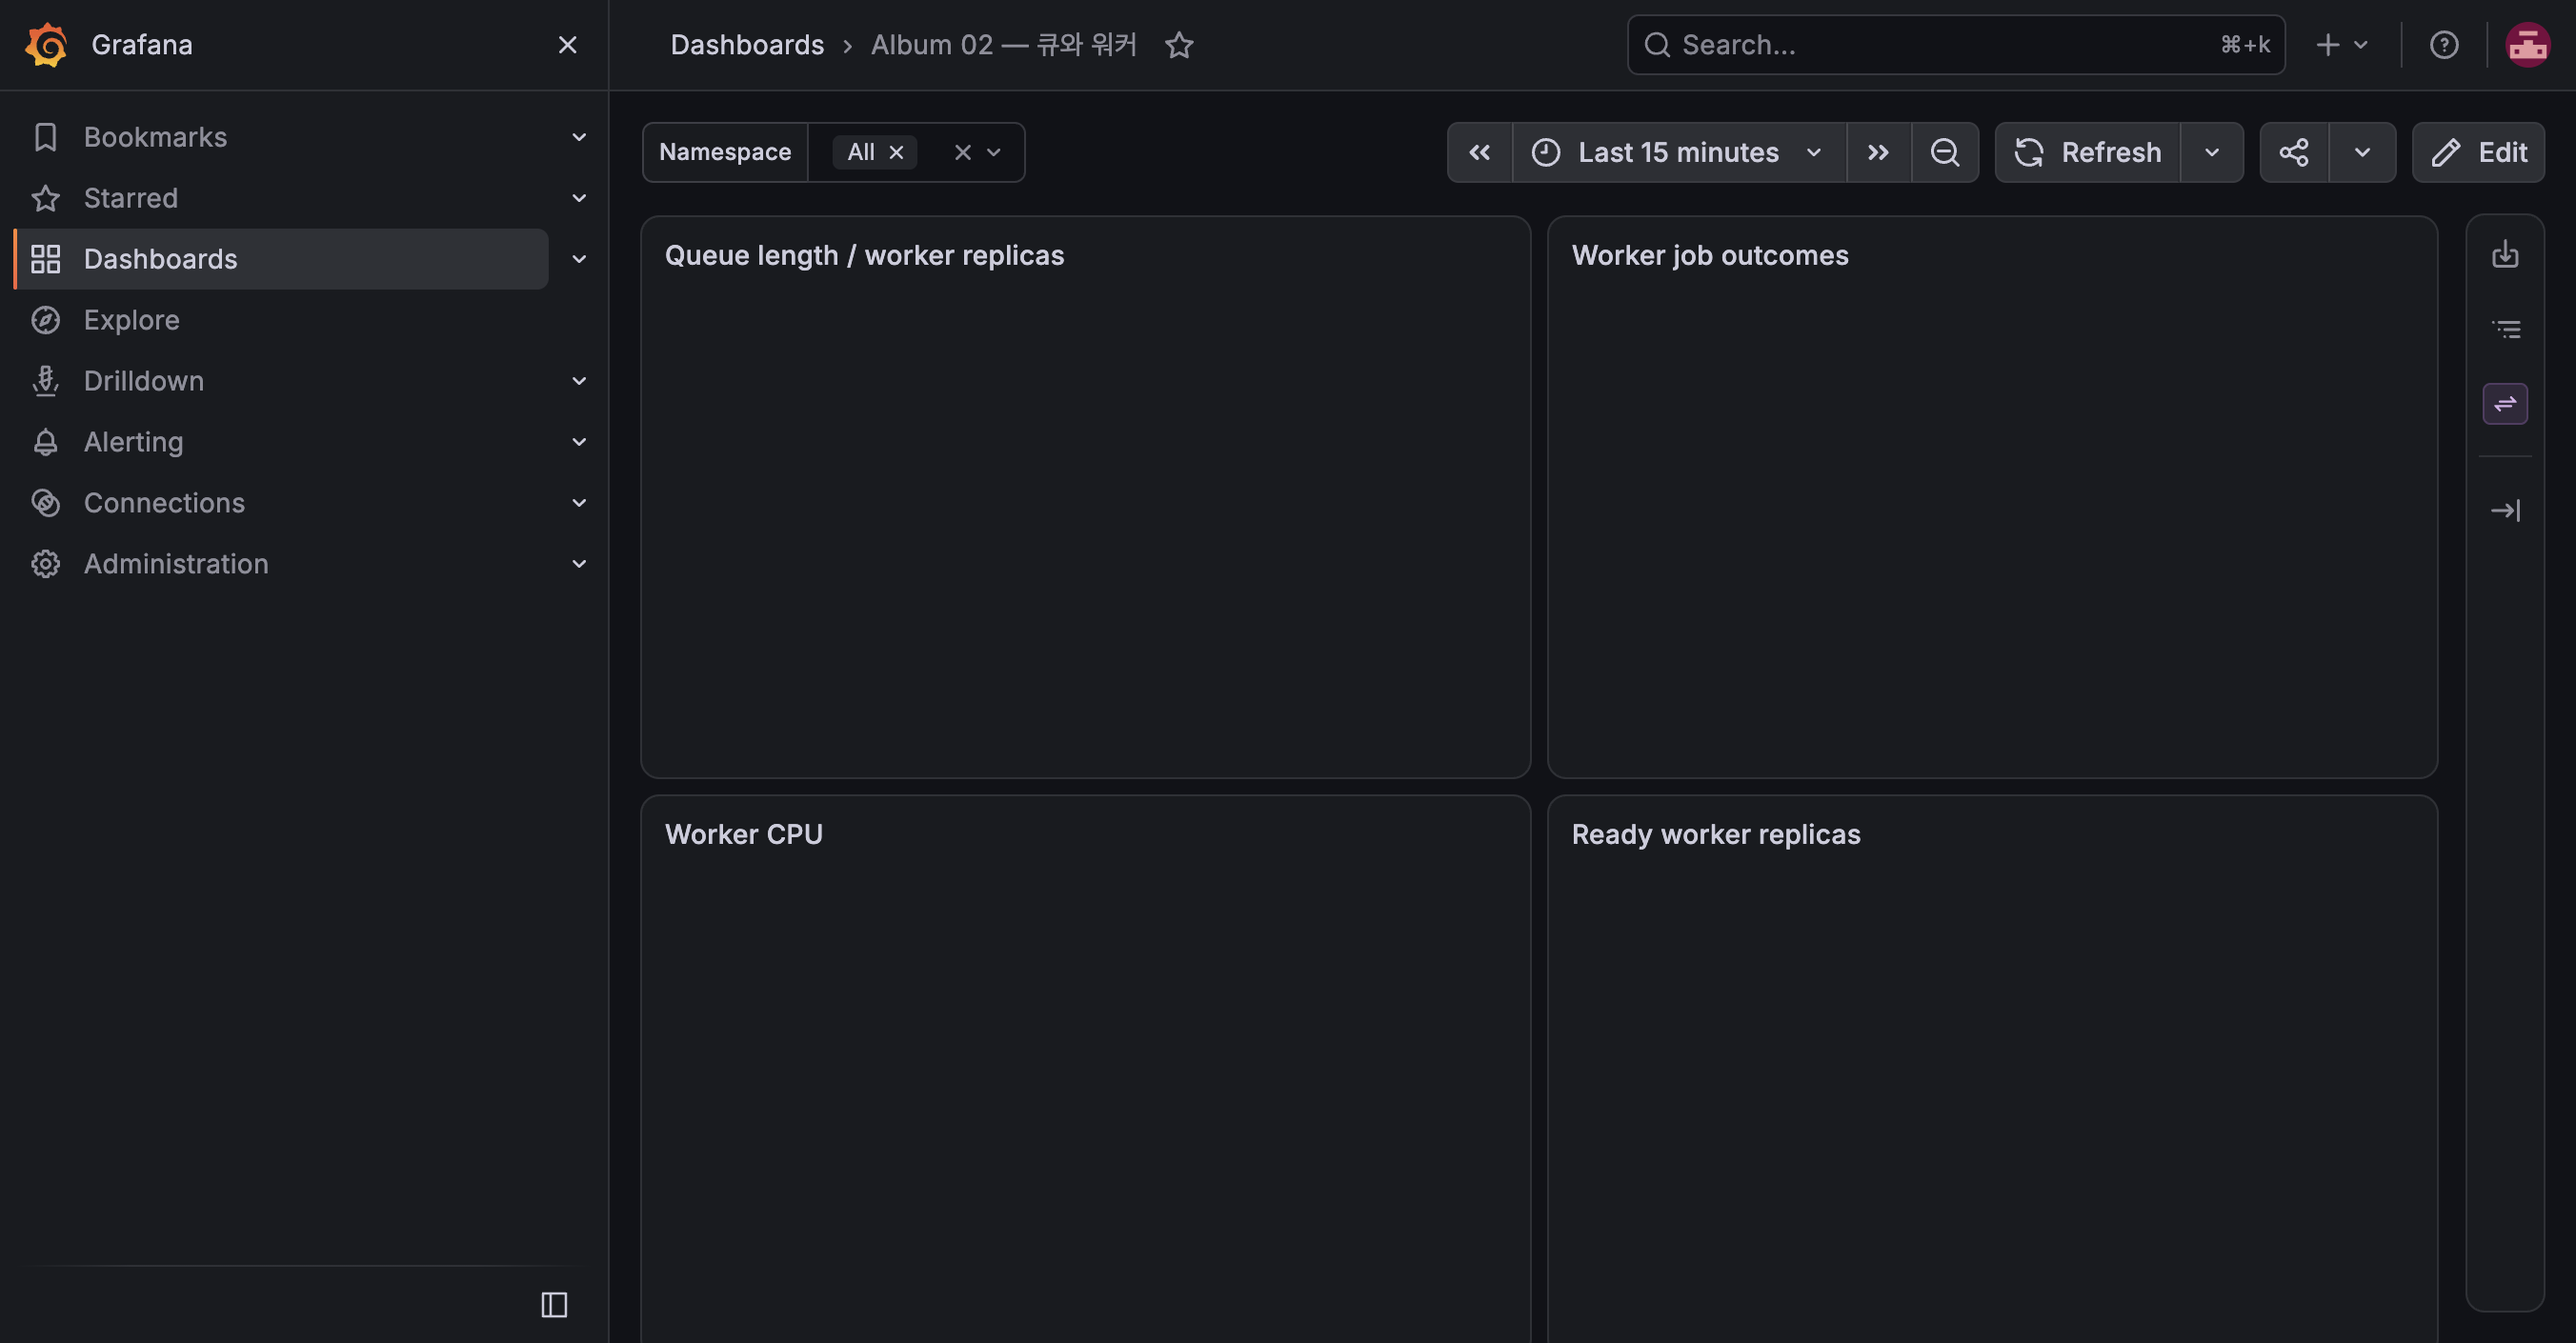
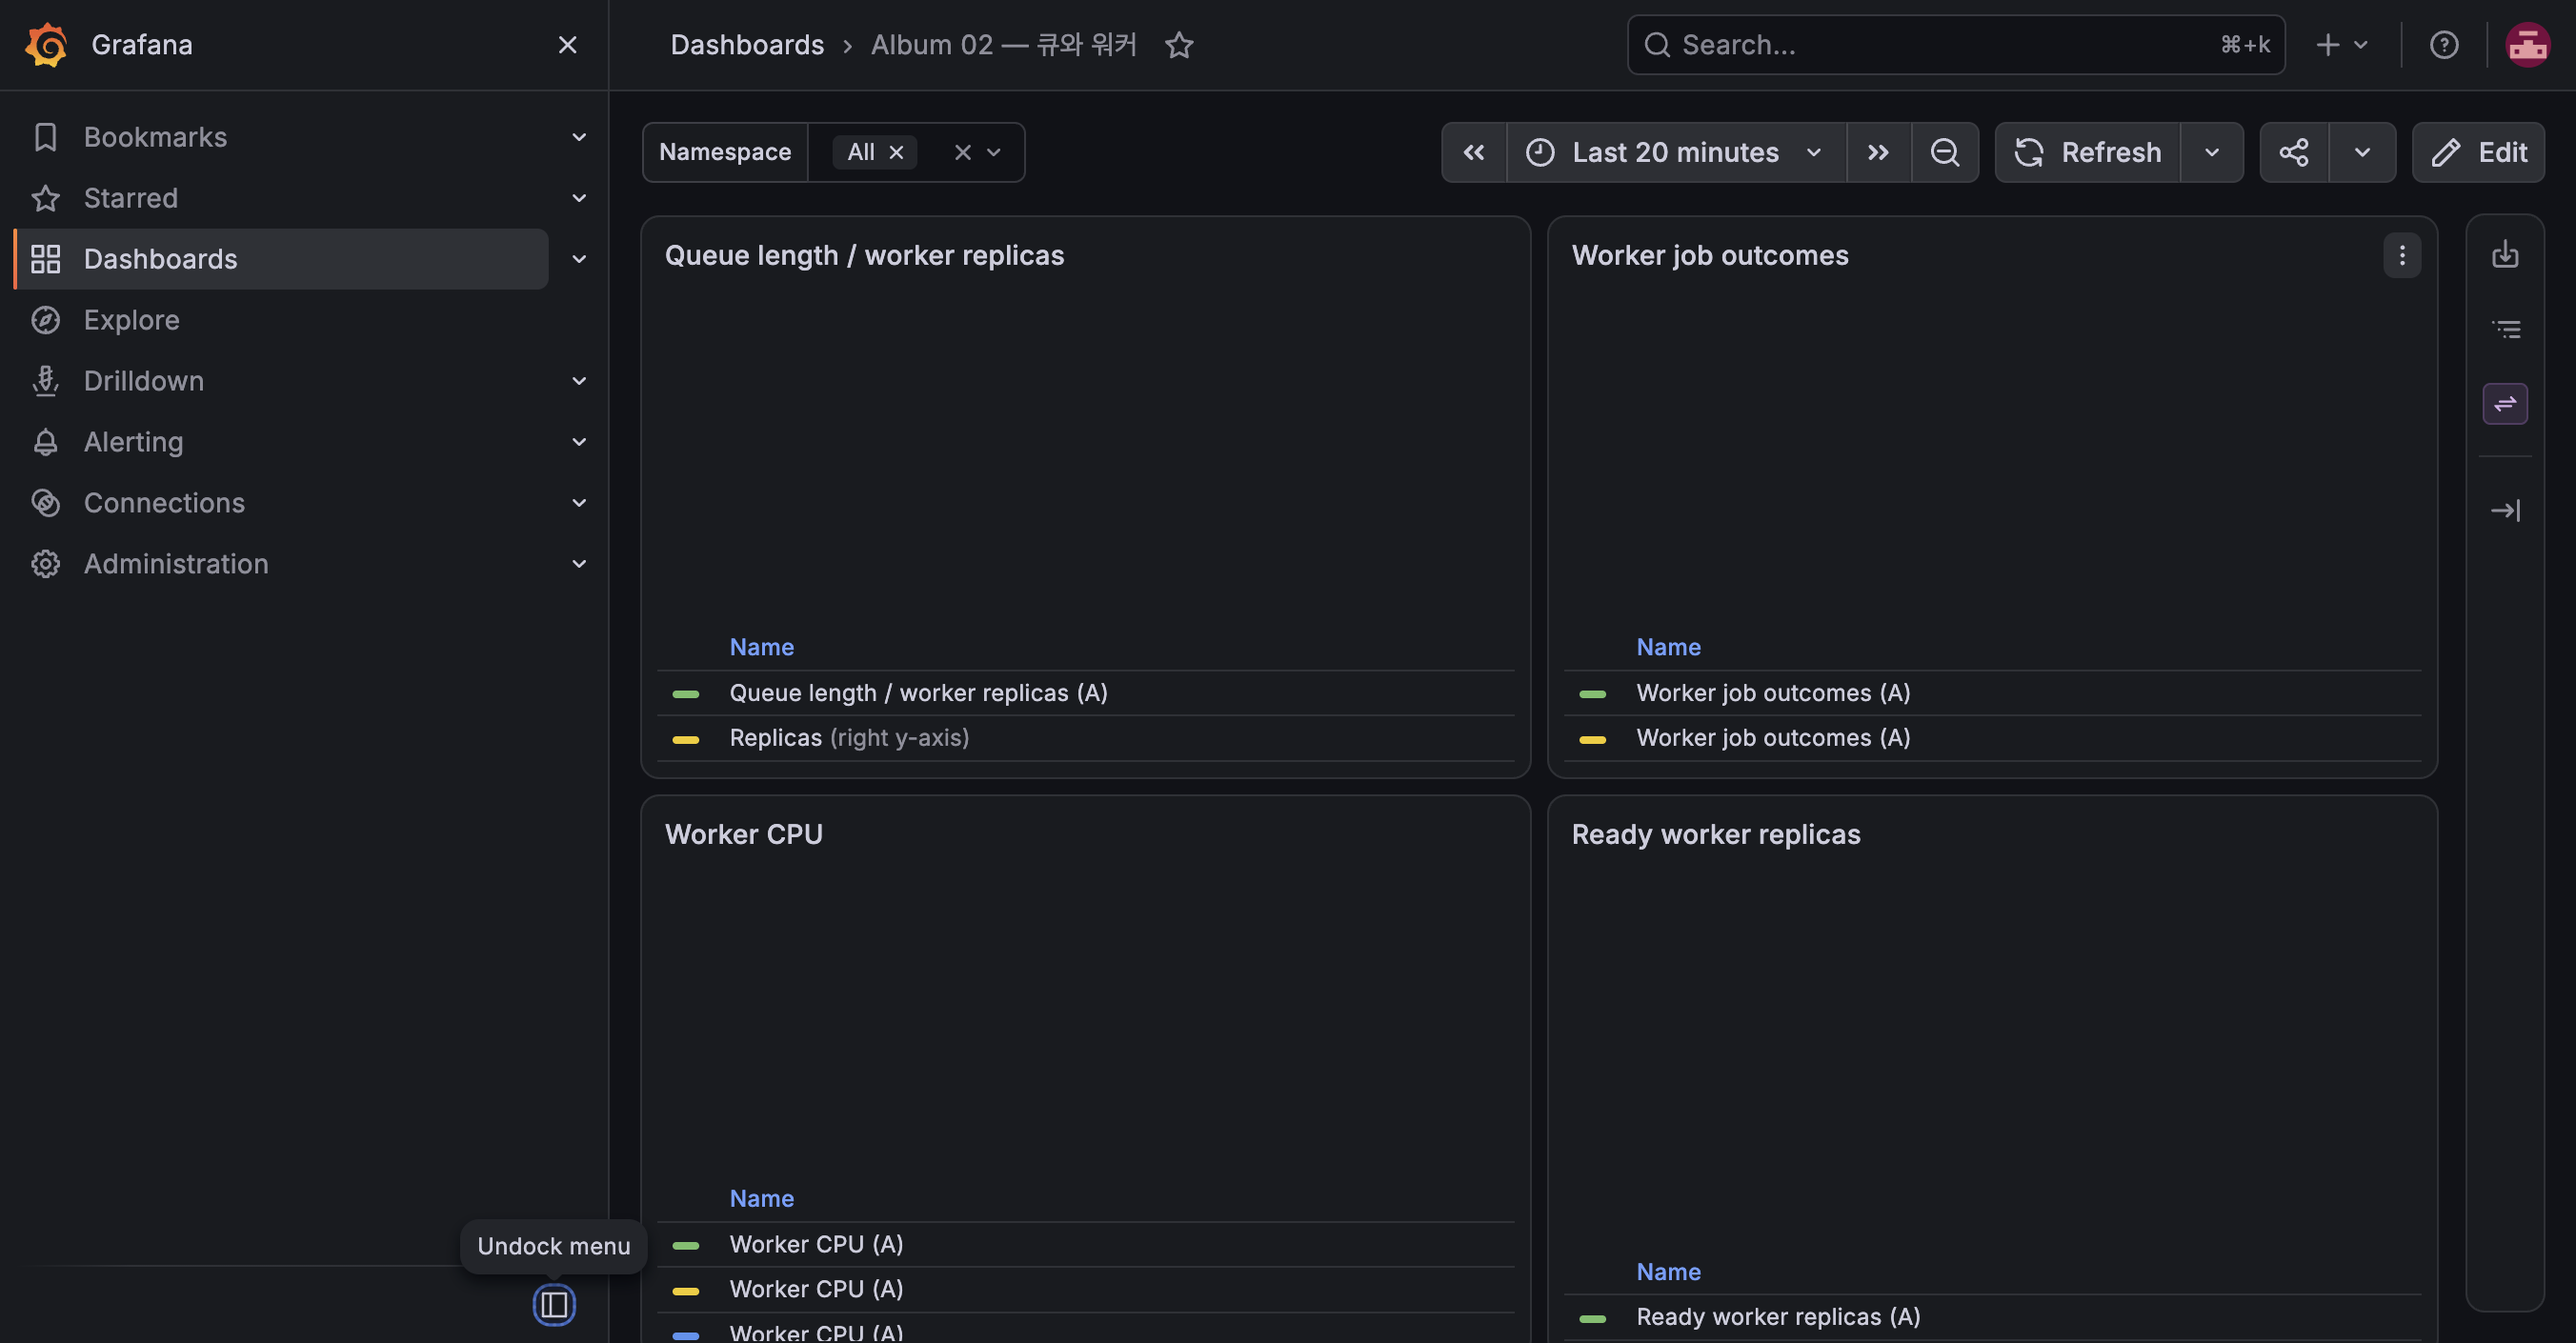
Record isolated HPA and five-hundred-photo scaling experiments
Tested: The staged 200-VU run completed 41809 requests with zero errors; all 500 uploaded fixtures reached DONE and workers scaled 0-2-0.
Constraint: Save accepted fixture IDs even when another upload fails and clean only those IDs.
Not-tested: These compressed fixtures are not a throughput benchmark for large real photos.
Reversibility: Remove the load tools; restore ARTIFICIAL_DELAY_MS to zero.

diff --git a/loadtest/list.js b/loadtest/list.js
@@ -1,0 +1,16 @@
+import http from 'k6/http';
+import { check } from 'k6';
+
+export const options = {
+  stages: [
+    { duration: '30s', target: 200 },
+    { duration: __ENV.DURATION || '3m', target: 200 },
+    { duration: '10s', target: 0 },
+  ],
+  thresholds: { http_req_failed: ['rate<0.01'], checks: ['rate>0.99'] },
+};
+
+export default function () {
+  const response = http.get(`${__ENV.BASE_URL || 'http://album.dev.local'}/api/photos`);
+  check(response, { 'list returns 200': (r) => r.status === 200 });
+}

diff --git a/loadtest/upload-batch.py b/loadtest/upload-batch.py
@@ -1,0 +1,102 @@
+#!/usr/bin/env python3
+# /// script
+# requires-python = "==3.13.*"
+# dependencies = ["httpx2[http2,brotli,zstd]"]
+# ///
+"""Upload isolated fixtures; persist their IDs for polling and explicit cleanup."""
+
+import argparse
+import json
+import socket
+import sys
+from concurrent.futures import ThreadPoolExecutor, as_completed
+from pathlib import Path
+
+import httpx2
+
+sys.path.insert(0, str(Path(__file__).resolve().parents[1] / "scripts"))
+from smoke import png
+
+
+def main() -> None:
+    parser = argparse.ArgumentParser(description=__doc__)
+    parser.add_argument("--count", type=int, default=500)
+    parser.add_argument("--concurrency", type=int, default=8)
+    parser.add_argument("--base", default="http://album.dev.local")
+    parser.add_argument(
+        "--output", type=Path, default=Path("/tmp/album-batch-ids.json")
+    )
+    parser.add_argument("--cleanup", action="store_true")
+    parser.add_argument("--status", action="store_true")
+    args = parser.parse_args()
+    if args.count < 1 or args.concurrency < 1:
+        parser.error("count and concurrency must be positive")
+    transport = httpx2.HTTPTransport(
+        http2=True,
+        retries=3,
+        limits=httpx2.Limits(
+            max_connections=200, max_keepalive_connections=40, keepalive_expiry=30
+        ),
+        socket_options=[(socket.IPPROTO_TCP, socket.TCP_NODELAY, 1)],
+    )
+    with httpx2.Client(
+        transport=transport,
+        base_url=args.base,
+        timeout=httpx2.Timeout(connect=5, read=30, write=10, pool=10),
+        follow_redirects=True,
+    ) as client:
+        if args.status:
+            counts: dict[str, int] = {}
+            for photo_id in json.loads(args.output.read_text()):
+                response = client.get(f"/api/photos/{photo_id}")
+                response.raise_for_status()
+                status = response.json()["status"]
+                counts[status] = counts.get(status, 0) + 1
+            print(json.dumps(counts, sort_keys=True))
+            if set(counts) != {"DONE"}:
+                raise RuntimeError("Batch has unfinished or failed photos")
+            return
+        if args.cleanup:
+            ids = json.loads(args.output.read_text())
+            for photo_id in ids:
+                response = client.delete(f"/api/photos/{photo_id}")
+                if response.status_code != 404:
+                    response.raise_for_status()
+            print(f"Deleted {len(ids)} batch fixtures")
+            args.output.unlink()
+            return
+        if args.output.exists():
+            parser.error("output already exists; clean the previous batch first")
+        image = png(1600, 1200)
+        ids: list[str] = []
+
+        def upload(number: int) -> str:
+            response = client.post(
+                "/api/photos",
+                files={"file": (f"batch-{number}.png", image, "image/png")},
+            )
+            response.raise_for_status()
+            return response.json()["id"]
+
+        # Save every accepted ID, including when a later request fails.
+        with ThreadPoolExecutor(max_workers=args.concurrency) as executor:
+            failures = 0
+            for future in as_completed(
+                [executor.submit(upload, n) for n in range(args.count)]
+            ):
+                try:
+                    ids.append(future.result())
+                except (httpx2.HTTPError, KeyError, ValueError):
+                    failures += 1
+                args.output.write_text(json.dumps(ids))
+            if failures:
+                raise RuntimeError(
+                    f"{failures} uploads failed; accepted IDs saved for cleanup"
+                )
+        print(
+            f"Uploaded {len(ids)} PNG fixtures, {len(image)} bytes each, concurrency {args.concurrency}"
+        )
+
+
+if __name__ == "__main__":
+    main()

diff --git a/docs/experiments/E-03.md b/docs/experiments/E-03.md
@@ -1,0 +1,58 @@
+# E-03 큐 기반 worker 자동 확장
+
+| 항목 | 내용 |
+|---|---|
+| 수행 일시 | 2026-10-15 09:07:07~09:15:52 KST |
+| 환경 | dev K3S 단일 B4as_v2 노드 |
+| 앱 버전 | 업로드·처리 dev-m3b, 냉각 대기 중 API만 dev-m6-v2로 교체 |
+| 판정 | 통과 |
+
+## 기대와 사전 상태
+
+worker 0개에서 500장 업로드 시 0→N→0으로 변한다. 주 Redis list만
+감시하고 processing list는 확장 기준에서 제외한다. dev 최대 2개,
+목표 큐 길이 5, polling 5초, cooldown 300초다.
+
+이전 동시 부하 실행은 500건 중 8건이 실패했고, 다음 재시도는 500건이
+성공했지만 시작 시 worker 2개였다. 두 실행을 최종 0→N→0 증거로
+취급하지 않았다. 데이터를 정리하고 worker 0개를 확인한 뒤 다시 실행했다.
+
+## 수행 절차
+
+ARTIFICIAL_DELAY_MS=500을 임시 적용했다. 생성 PNG는 1600×1200,
+8,462 bytes이며 동시 업로드 8개, 총 500개다. ID 파일은 VM /tmp에만 둔다.
+
+```bash
+kubectl -n album-dev get deployment worker
+uv run --python 3.13 loadtest/upload-batch.py
+kubectl -n album-dev get hpa
+uv run --python 3.13 loadtest/upload-batch.py --status
+kubectl -n album-dev wait --for=jsonpath='{.spec.replicas}'=0 deployment/worker --timeout=180s
+uv run --python 3.13 loadtest/upload-batch.py --cleanup
+```
+
+## 관찰
+
+| 시각 KST | 실제 결과 |
+|---|---|
+| 09:07:07 | worker 0/0 |
+| 09:07:10 | 500/500 업로드 성공 |
+| 09:07:34 | worker 2/2, HPA 큐 표본 223.5/5 (Pod당 평균) |
+| 09:09:51 | 주 큐 표본 0/5, worker 2/2로 냉각 대기 |
+| 09:14:41 | worker 0/0 |
+| 09:15:52 | DONE 500개 확인, 500개 fixture 삭제 완료 |
+
+![큐 길이와 worker replica](screenshots/E-03-queue-scale.png)
+
+CPU Credits Remaining 표본은 전체 실험 시작 08:52에 259.04,
+종료 부근 09:14에 265.48이었다. 고갈은 없었다. 실험별 시작 표본은
+Azure 시계열에서 보충한다.
+
+## 정리와 한계
+
+ID로 식별한 사진만 삭제했고 임시 ID 파일도 제거했다. 저장소 설정은
+ARTIFICIAL_DELAY_MS=0으로 복원했다. API 복구·롤링 실험을 냉각 대기 중
+진행했지만 새 업로드는 하지 않아 worker 큐 활성 시각을 연장하지 않았다.
+냉각은 마지막 활성 표본 기준이며 관찰 간격과 polling 때문에 정확히
+벽시계 300초에 맞아떨어지지 않는다. 이 작은 압축 PNG 결과는 큰 실사진의
+처리량을 보장하지 않는다.

diff --git a/docs/experiments/E-02.md b/docs/experiments/E-02.md
@@ -1,0 +1,54 @@
+# E-02 CPU 기반 HPA
+
+| 항목 | 내용 |
+|---|---|
+| 수행 일시 | 2026-10-15 08:54~09:07 KST, 축소 관찰 계속 |
+| 환경 | dev, K3S 단일 B4as_v2 노드 |
+| 앱 버전 | dev-m3b |
+| 판정 | 통과 |
+
+## 목적과 기대
+
+API CPU가 requests의 60%를 넘으면 1→3으로 확장하고, 부하 종료 후
+300초 안정화 창을 지나 1개로 돌아온다. CPU limit은 Pod당 1 CPU다.
+
+## 수행
+
+처음에는 200 VU를 즉시 투입했고 업로드와 ConfigMap 변경도 겹쳤다.
+89,599건 중 1,125건이 실패(1.25%)해 1% 기준을 넘었다. 이 실패를
+삭제하거나 성공으로 취급하지 않았다. 후속 실행은 업로드를 분리하고,
+500장 DONE 데이터가 있는 상태에서 30초 ramp-up → 200 VU 3분 →
+10초 ramp-down으로 진행했다.
+
+```bash
+k6 run --summary-export=/tmp/album-e02-ramp-summary.json loadtest/list.js
+kubectl -n album-dev get hpa
+kubectl -n album-dev get deployment api
+```
+
+## 관찰
+
+첫 실행 08:54:37 CPU 999%에서 API가 1→3으로 확장됐다.
+부하 종료와 추가 요청이 멈춘 뒤 09:02:53에 1개로 돌아왔다.
+두 번째 실행은 09:03경 1개에서 시작했고 09:04:20에 CPU 899%, 3개였다.
+
+```text
+checks_total: 41809
+checks_succeeded: 100.00% (41809/41809)
+http_req_failed: 0.00%
+http_req_duration: avg 959.89ms, p95 2.83s, max 4s
+```
+
+![API CPU와 replica 시계열](screenshots/E-02-api-scale.png)
+
+CPU Credits Remaining은 첫 부하 직전 259.04였다(08:52 KST 표본).
+종료 부근 09:14 표본은 265.48로 고갈되지 않았다. E-01/E-04 동안 최소
+replica를 임시 2로 유지했고 09:15:52에 HPA 최소값 1로 복원했다.
+
+## 한계와 정리
+
+requests 대비 CPU %이므로 100%는 노드 전체 사용률이 아니다.
+PRD는 HPA 동작 실험이며 이 결과는 처리량 벤치마크가 아니다.
+두 번째 실행 중 작은 캐시 기반 이미지 빌드와 격리 cleanup 검증이 잠시
+겹쳤으므로 CPU 수치를 독립적인 성능 기준으로 일반화하지 않는다.
+500장 시험 데이터는 E-03 종료 후 모두 삭제했고 ARTIFICIAL_DELAY_MS는 0으로 복원했다.
